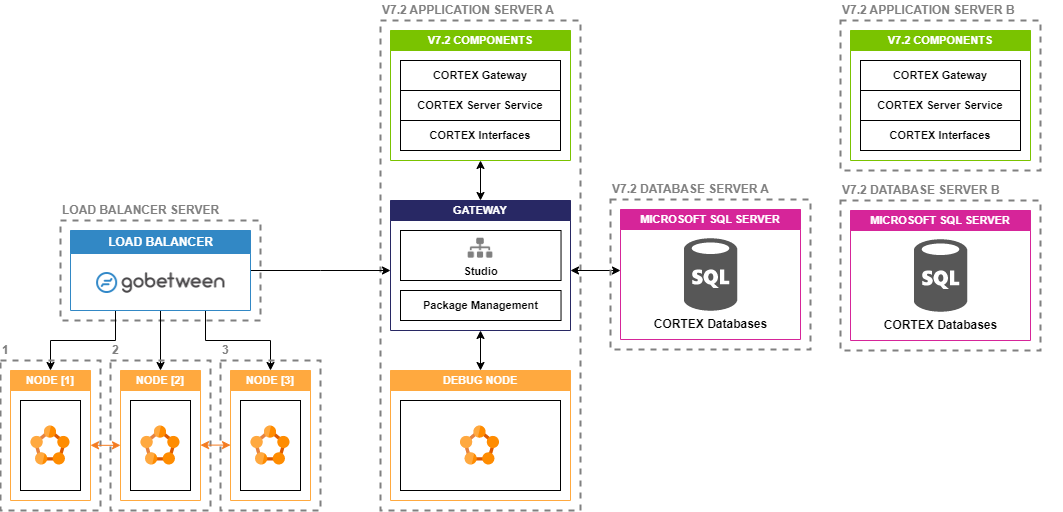
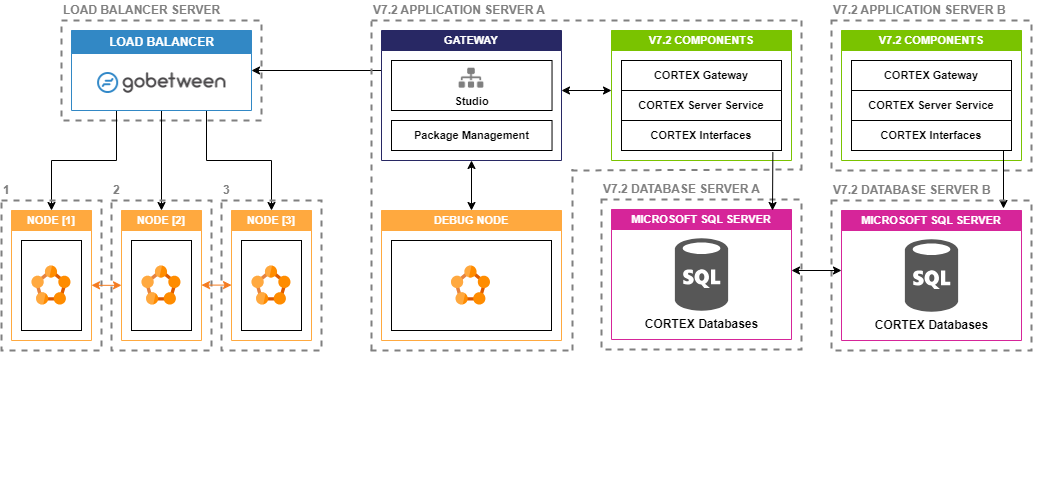
changes to documentation for removal of SQL Server for Gateway

diff --git a/content/en/docs/2024.1/getting-started/on-premise/add-innovation-to-72/multiple-server-with-ha/prerequisites.md b/content/en/docs/2024.1/getting-started/on-premise/add-innovation-to-72/multiple-server-with-ha/prerequisites.md
@@ -15,11 +15,6 @@ All server roles (e.g. Load Balancer, Application Server, Web Application Server
 
 ## Hardware Requirements
 
-Hardware requirements differ for each server role depending on whether it is being installed on new hardware or hardware which already contains v7.2 components. The minimum requirements for existing hardware will be greater than those for new hardware. The requirements for using the [Recommended Architecture][] can be found [here][Requirements For Recommended Architecture]. Requirements for using the [Minimum Architecture][] can be found [here][Requirements For Recommended Architecture]. [This table][Requirements For Alternative Architectures] is also provided to help calculate requirements for [Alternative Architectures][].
-
-### Recommended Architecture
-
-Use these hardware requirements if using the [Recommended Architecture][].
 
 | Server&nbsp;Role | Servers&nbsp;Required | CPU&nbsp;Cores&nbsp;(>&nbsp;2GHz) | RAM&nbsp;(GB) | Disk&nbsp;(GB) |  
 |------------------|-----------------------|-----------------------------------|---------------|----------------------|
@@ -27,44 +22,22 @@ Use these hardware requirements if using the [Recommended Architecture][].
 | New Innovation Application&nbsp;Server | 3&nbsp;*Bronze&nbsp;availability*[^2]<br>5&nbsp;*Silver&nbsp;availability*<br>7&nbsp;*Gold&nbsp;availability*<br>9&nbsp;*Platinum&nbsp;availability* | 4+&nbsp;*Recommended*<br>2&nbsp;*Minimum* | 16+&nbsp;*Recommended*<br>8&nbsp;*Minimum* | 75+&nbsp;*Recommended*<br>60&nbsp;*Minimum*<br>40+&nbsp;free&nbsp;on&nbsp;%ProgramData%&nbsp;drive |
 | Existing V7.2 Application Server with Gateway<br>+ Upgrade to Innovation Web Application Server | 1 | 4+&nbsp;*Recommended*<br>4&nbsp;*Minimum* | 16+&nbsp;*Recommended*<br>12&nbsp;*Minimum* | 160+&nbsp;*Recommended*<br>135&nbsp;*Minimum*<br>30+&nbsp;free&nbsp;on&nbsp;installation&nbsp;drive<br>40+&nbsp;free&nbsp;on&nbsp;%ProgramData%&nbsp;drive  |
 
-### Minimum Architecture
-
-Use these hardware requirements if using the [Minimum Architecture][] and installing on existing v7.2 hardware.
-
-| Server&nbsp;Role | Servers&nbsp;Required | CPU&nbsp;Cores&nbsp;(>&nbsp;2GHz) | RAM&nbsp;(GB) | Disk&nbsp;(GB) |  
-|------------------|-----------------------|-----------------------------------|---------------|----------------------|
-| Existing V7.2 Database Server <br>+ Innovation Load Balancer| 1[^1] | 4+&nbsp;*Recommended*<br>4&nbsp;*Minimum* | 8+&nbsp;*Recommended*<br>4&nbsp;*Minimum* | 300+&nbsp;*Recommended*<br>70&nbsp;*Minimum*<br>5+&nbsp;free&nbsp;on&nbsp;installation&nbsp;drive |
-| Existing V7.2 Database Server <br>+ Innovation Application Server | 1 | 4+&nbsp;*Recommended*<br>4&nbsp;*Minimum* | 16+&nbsp;*Recommended*<br>12&nbsp;*Minimum* | 300+&nbsp;*Recommended*<br>100&nbsp;*Minimum*<br>40+&nbsp;free&nbsp;on&nbsp;%ProgramData%&nbsp;drive|
-| Existing V7.2 Application Server <br>+ Innovation Application Server | 2 | 4+&nbsp;*Recommended*<br>4&nbsp;*Minimum* | 16+&nbsp;*Recommended*<br>12&nbsp;*Minimum* | 120+&nbsp;*Recommended*<br>100&nbsp;*Minimum*<br>40+&nbsp;free&nbsp;on&nbsp;%ProgramData%&nbsp;drive|
-| Existing V7.2 Web Application Server<br>+ Innovation Application Server<br>+ Upgrade to Innovation Web Application Server | 1 | 4+&nbsp;*Recommended*<br>2&nbsp;*Minimum* | 16+&nbsp;*Recommended*<br>12&nbsp;*Minimum* | 150+&nbsp;*Recommended*<br>100&nbsp;*Minimum*<br>30+&nbsp;free&nbsp;on&nbsp;installation&nbsp;drive<br>40+&nbsp;free&nbsp;on&nbsp;%ProgramData%&nbsp;drive |
-
 [^1]: A software-based load balancer called [gobetween][] is provided with the platform. This must be installed on its own server as it doesn't support routing traffic to itself. It also doesn't currently support HA, but it may be possible to use multiple gobetween load balancers with Anycast network addressing and routing to provide high availability, as described in [https://en.wikipedia.org/wiki/Anycast][Anycast]; however, this has not been verified yet. It is possible to use an [alternative load balancer][] to the one provided.
 [^2]: Application Servers support HA via clustering. A cluster must consist of a minimum of 3 nodes, and the number of nodes must be an odd number to ensure a quorum. Currently only the Bronze availability (3 nodes) is supported. Silver, Gold and Platinum support will be added in future.
 
-### Alternative Architectures
-
-This table displays the additional resources required when adding an Innovation Server Role to an existing server using [Alternative Architectures][]. It can be used to calculate how many additional resources are needed to install Innovation by adding the numbers in the table to fully utilised resource usage on a given server.
-
-| Server&nbsp;Role | Minimum Additional CPU&nbsp;Cores&nbsp;(>&nbsp;2GHz) | Minimum Additional RAM&nbsp;(GB) | Minimum Additional Disk&nbsp;(GB) |  
-|------------------|-----------------------------------|---------------|----------------------|
-| Load&nbsp;Balancer | 2 | 2 | 10&nbsp;free&nbsp;on&nbsp;installation&nbsp;drive |
-| Application&nbsp;Server | 2 | 8 | 40&nbsp;free&nbsp;on&nbsp;%ProgramData%&nbsp;drive |
-| Web&nbsp;Application&nbsp;Server | 2 | 4 | 30&nbsp;free&nbsp;on&nbsp;installation&nbsp;drive |
-
 ## Software Requirements
 
-| Server&nbsp;Role | Windows&nbsp;Server[^3] | SQL&nbsp;Server[^4] | .Net | PowerShell[^5] | IIS[^6] | Other Software |
-|------------------|-------------------------|---------------------|------|------------|---------|----------|
-| Load&nbsp;Balancer | [2019&nbsp;(x64)][Microsoft Server 2019]&nbsp;*Recommended*<br>[2016&nbsp;(x64)][Microsoft Server 2016] | | [Framework&nbsp;4.7.2][NET Framework 472] | 5.1 | |
-| Application&nbsp;Server | [2019&nbsp;(x64)][Microsoft Server 2019]&nbsp;*Recommended*<br>[2016&nbsp;(x64)][Microsoft Server 2016] | | [Framework&nbsp;4.7.2][NET Framework 472] | 5.1 | |
-| Web&nbsp;Application&nbsp;Server | [2019&nbsp;(x64)][Microsoft Server 2019]&nbsp;*Recommended*<br>[2016&nbsp;(x64)][Microsoft Server 2016] | [2019][Microsoft SQL Server 2019]<br />[2016][Microsoft SQL Server 2016]<br />[2016&nbsp;Express][Microsoft SQL Express 2016] | [Framework&nbsp;4.7.2][NET Framework 472] | 5.1 | 10.0.17763[^7]<br>10.0.14393[^8]<br>[URL&nbsp;Rewrite&nbsp;Module&nbsp;2.1][IIS Url Rewrite] | [Microsoft Web Deploy 3.0 or later][Web Deploy]<br>[Visual C++ Redistributable 2013 (x64)][C++ Redistributable] |
+| Server&nbsp;Role | Windows&nbsp;Server[^3] | .Net | PowerShell[^4] | IIS[^5] | Other Software |
+|------------------|-------------------------|------|------------|---------|----------|
+| Load&nbsp;Balancer | [2019&nbsp;(x64)][Microsoft Server 2019]&nbsp;*Recommended*<br>[2016&nbsp;(x64)][Microsoft Server 2016] | [Framework&nbsp;4.7.2][NET Framework 472] | 5.1 | |
+| Application&nbsp;Server | [2019&nbsp;(x64)][Microsoft Server 2019]&nbsp;*Recommended*<br>[2016&nbsp;(x64)][Microsoft Server 2016] | [Framework&nbsp;4.7.2][NET Framework 472] | 5.1 | |
+| Web&nbsp;Application&nbsp;Server | [2019&nbsp;(x64)][Microsoft Server 2019]&nbsp;*Recommended*<br>[2016&nbsp;(x64)][Microsoft Server 2016] | [Framework&nbsp;4.7.2][NET Framework 472] | 5.1 | 10.0.17763[^6]<br>10.0.14393[^7]<br>[URL&nbsp;Rewrite&nbsp;Module&nbsp;2.1][IIS Url Rewrite] | [Microsoft Web Deploy 3.0 or later][Web Deploy]<br>[Visual C++ Redistributable 2013 (x64)][C++ Redistributable] |
 
 [^3]: Windows Server Standard and Datacenter editions are supported. Filesystem **must be NTFS** and networking **must use IPv4**. Linux is not supported, but may be in the future.
-[^4]: SQL Server Express, Standard and Enterprise are supported. Other databases are not supported. Note that [Transparent Data Encryption][] is not supported on SQL Server Express.
-[^5]: PowerShell 5.1 ships with Windows Server 2016 and 2019.
-[^6]: IIS is supported; other web servers, including IIS Express are not supported.
-[^7]: Ships as a windows role within Windows Server 2019.
-[^8]: Ships as a windows role within Windows Server 2016.
+[^4]: PowerShell 5.1 ships with Windows Server 2016 and 2019.
+[^5]: IIS is supported; other web servers, including IIS Express are not supported.
+[^6]: Ships as a windows role within Windows Server 2019.
+[^7]: Ships as a windows role within Windows Server 2016.
 
 ## Domain Requirements
 
@@ -303,32 +276,21 @@ Innovation has a [gobetween][] load balancer included that isn't highly availabl
 
 ## Next Steps?
 
-Application Servers and Load Balancer server are installed in the same way regardless of whether new or existing hardware is being used:
-
 1. [Install Application Servers and Load Balancer][]
 
-[Port Requirements]: {{< url path="Cortex.GettingStarted.OnPremise.InstallInnovationOnly.Advanced.PortRequirements" >}}
-[Install Application Servers and Load Balancer]: {{< url path="Cortex.GettingStarted.OnPremise.AddInnovationTo72.MultipleServerWithHA.InstallApplicationAndLoadBalancerServers" >}}
-[Upgrading Gateway]: {{< url path="Cortex.GettingStarted.OnPremise.AddInnovationTo72.MultipleServerWithHA.ConfigureCortexGatewayInstallationScriptNew" >}}
-[Architecture]: {{< url path="Cortex.GettingStarted.OnPremise.AddInnovationTo72.MultipleServerWithHA.Architecture" >}}
-[Recommended Architecture]: {{< url path="Cortex.GettingStarted.OnPremise.AddInnovationTo72.MultipleServerWithHA.RecommendedArchitecture" >}}
-[Minimum Architecture]: {{< url path="Cortex.GettingStarted.OnPremise.AddInnovationTo72.MultipleServerWithHA.MinimumArchitecture" >}}
-[Alternative Architectures]: {{< url path="Cortex.GettingStarted.OnPremise.AddInnovationTo72.MultipleServerWithHA.AlternativeArchitectures" >}}
-[SSL Best Practices]: {{< url path="Cortex.GettingStarted.OnPremise.InstallInnovationOnly.Advanced.SSLBestPractices" >}}
-[gobetween]: {{< url path="GoBetween.MainDoc" >}}
-[CORTEX Service Portal]: {{< url path="Cortex.ServicePortal.MainDoc" >}}
-[Anycast]: {{< url path="Anycast.MainDoc" >}}
 [alternative load balancer]: {{< ref "#alternative-load-balancer-requirements" >}}
-[Microsoft Server 2019]: {{< url path="MSEval.WindowsServer.2019" >}}
-[Microsoft Server 2016]: {{< url path="MSEval.WindowsServer.2016" >}}
-[NET Framework 472]: {{< url path="MSDotNet.Framework472.MainDoc" >}}
-[Microsoft SQL Server 2019]: {{< url path="MSEval.SQLServer.2019" >}}
-[Microsoft SQL Server 2016]: {{< url path="MSEval.SQLServer.2016" >}}
-[Microsoft SQL Express 2016]: {{< url path="MSDownload.SqlServerExpress.2016" >}}
-[IIS Url Rewrite]: {{< url path="IIS.Downloads.UrlRewrite-2_1" >}}
-[Web Deploy]: {{< url path="MSDownload.WebDeploy" >}}
-[CORTEX Encrypted]: {{< url path="Cortex.GettingStarted.OnPremise.InstallInnovationOnly.Advanced.EncryptText" >}}
+[Anycast]: {{< url path="Anycast.MainDoc" >}}
+[Architecture]: {{< url path="Cortex.GettingStarted.OnPremise.AddInnovationTo72.MultipleServerWithHA.Architecture" >}}
 [C++ Redistributable]: {{< url path="MSDownload.CPlusPlusRedistributable.2013" >}}
-[Requirements For Recommended Architecture]: {{< ref "#recommended-architecture" >}}
-[Requirements For Alternative Architectures]: {{< ref "#alternative-architectures" >}}
-[Transparent Data Encryption]: {{< url path="MSDocs.SqlServer.TransparentDataEncryption" >}}
+[CORTEX Service Portal]: {{< url path="Cortex.ServicePortal.MainDoc" >}}
+[gobetween]: {{< url path="GoBetween.MainDoc" >}}
+[IIS Url Rewrite]: {{< url path="IIS.Downloads.UrlRewrite-2_1" >}}
+[Install Application Servers and Load Balancer]: {{< url path="Cortex.GettingStarted.OnPremise.AddInnovationTo72.MultipleServerWithHA.InstallApplicationAndLoadBalancerServers" >}}
+[Microsoft Server 2016]: {{< url path="MSEval.WindowsServer.2016" >}}
+[Microsoft Server 2019]: {{< url path="MSEval.WindowsServer.2019" >}}
+[NET Framework 472]: {{< url path="MSDotNet.Framework472.MainDoc" >}}
+[Port Requirements]: {{< url path="Cortex.GettingStarted.OnPremise.InstallInnovationOnly.Advanced.PortRequirements" >}}
+[Recommended Architecture]: {{< url path="Cortex.GettingStarted.OnPremise.AddInnovationTo72.MultipleServerWithHA.RecommendedArchitecture" >}}
+[SSL Best Practices]: {{< url path="Cortex.GettingStarted.OnPremise.InstallInnovationOnly.Advanced.SSLBestPractices" >}}
+[Upgrading Gateway]: {{< url path="Cortex.GettingStarted.OnPremise.AddInnovationTo72.MultipleServerWithHA.ConfigureCortexGatewayInstallationScriptNew" >}}
+[Web Deploy]: {{< url path="MSDownload.WebDeploy" >}}

diff --git a/content/en/docs/2024.1/getting-started/on-premise/add-innovation-to-72/multiple-server-with-ha/architecture.md b/content/en/docs/2024.1/getting-started/on-premise/add-innovation-to-72/multiple-server-with-ha/architecture.md
@@ -17,16 +17,14 @@ weight: 10
 
 ## Possible Architectures
 
-{{% ctx %}} Innovation and v7.2 can run side-by-side, allowing flows to be built and run for both of them from the same Gateway instance. They each require a different set of back-end components to be installed. Innovation can be added to a v7.2 installation by using the existing hardware containing v7.2 components, using new hardware or a combination of the two. The only components shared by both Innovation and v7.2 are Gateway and its databases.
-
-The installation process is the same, regardless of which architecture is used; [Recommended][], [Minimum][] or [Alternative][]. The only difference is the [Hardware Requirements][], which will be greater for existing machines as they need more resources to run more components.
+{{% ctx %}} Innovation and v7.2 can run side-by-side, allowing flows to be built and run for both of them from the same Gateway instance. They each require a different set of back-end components to be installed. Innovation can be added to a v7.2 installation and the only component shared by both Innovation and v7.2 is {{% ctx %}} Gateway.
 
 ### Recommended Architecture
 
 The recommended architecture for adding Innovation to a v7.2 Dual Site, Dual Server system requires 8 servers in total; the 4 existing servers, plus 4 new servers:
 
 * 2x Existing Application Servers for v7.2, one of these will also act as the Web Application Server for Innovation. For Innovation, the existing Gateway will be upgraded and a new Debug Node will be added
-* 2x Existing Database Servers, used for v7.2 and Gateway databases
+* 2x Existing Database Servers, used for v7.2
 * 1x New Load Balancer Server for Innovation
 * 3x New Application Servers for Innovation
 
@@ -34,30 +32,10 @@ The recommended architecture for adding Innovation to a v7.2 Dual Site, Dual Ser
 
 {{< section "/architecture/components/node-details.md" >}}
 
-### Minimum Architecture
-
-The minimum architecture requires 5 servers:
-
-* 1x Web Application Server, which contains Gateway. For Innovation, the existing Gateway will be upgraded and a new Debug Node will be added
-* 2x Application Servers for v7.2, each of these will also host one of the three Application Servers for Innovation
-* 1x Database Server for v7.2, which will also host the remaining Application Server for Innovation
-* 1x Database Server for v7.2, which will also host the Load Balancer for Innovation
-
-{{< figure src="/images/editable/Cortex Innovation and v7.2 Min Architecture.png" class="centre" title="4 Server, Minimum Architecture Diagram" >}}
-
-{{< section "/architecture/components/node-details.md" >}}
-
-### Alternative Architectures
-
-Alternative architectures are possible; any of the Innovation server roles may be installed on any of the existing or new servers provided that the hardware is capable of running everything according to the [Hardware Requirements for Alternative Architectures][]. For example, if the database servers cannot have anything else installed on them, new servers may be used for the load balancer and the third Innovation Application Server. Additionally, an existing, alternative load balancer may be used instead of the bundled one. The only caveat is that the load balancer must not be installed on the same machine as an Innovation Application Server as it cannot be used to send traffic to itself.
-
 ## Next Steps?
 
 1. [Prerequisites][]
 
-[Prerequisites]: {{< url path="Cortex.GettingStarted.OnPremise.AddInnovationTo72.MultipleServerWithHA.Prerequisites" >}}
 [Hardware Requirements]: {{< url path="Cortex.GettingStarted.OnPremise.AddInnovationTo72.MultipleServerWithHA.HardwareRequirements" >}}
-[Hardware Requirements for Alternative Architectures]: {{< url path="Cortex.GettingStarted.OnPremise.AddInnovationTo72.MultipleServerWithHA.HardwareRequirementsAlternativeArchitecture" >}}
+[Prerequisites]: {{< url path="Cortex.GettingStarted.OnPremise.AddInnovationTo72.MultipleServerWithHA.Prerequisites" >}}
 [Recommended]: {{< ref "#recommended-architecture" >}}
-[Minimum]: {{< ref "#minimum-architecture" >}}
-[Alternative]: {{< ref "#alternative-architectures" >}}

diff --git a/content/en/docs/2024.1/getting-started/on-premise/add-innovation-to-72/single-server-without-ha/architecture.md b/content/en/docs/2024.1/getting-started/on-premise/add-innovation-to-72/single-server-without-ha/architecture.md
@@ -13,7 +13,7 @@ weight: 10
 
 ## Single Server Architecture
 
-{{% ctx %}} Innovation and v7.2 can run side-by-side, allowing flows to be built and run for both of them from the same Gateway instance. They each require a different set of back-end components to be installed. Innovation can be added to a {{% ctx %}} v7.2 installation by using the existing hardware. The only components shared by both Innovation and v7.2 are Gateway and its databases.
+{{% ctx %}} Innovation and v7.2 can run side-by-side, allowing flows to be built and run for both of them from the same Gateway instance. They each require a different set of back-end components to be installed. Innovation can be added to a {{% ctx %}} v7.2 installation by using the existing hardware. The only component shared by both Innovation and v7.2 is {% ctx %} Gateway.
 
 The minimum architecture for adding Innovation to a v7.2 Single Site, Single Server system is as follows:
 
